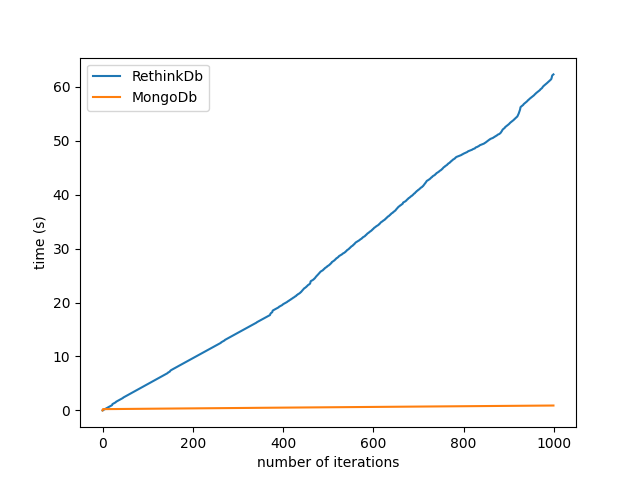
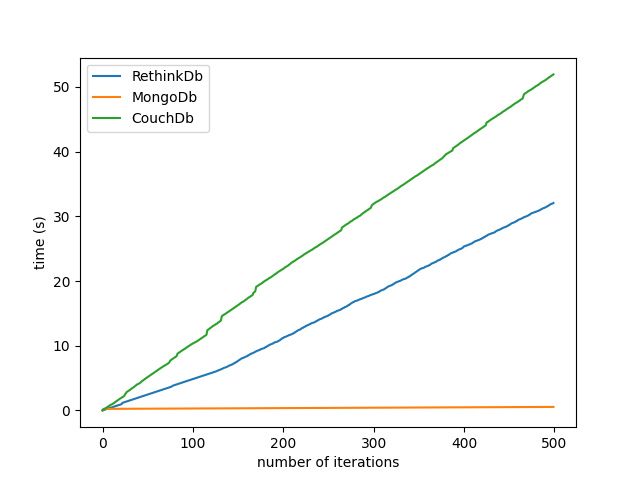
compare rethink with couchDb

diff --git a/efficiency-tests/main.py b/efficiency-tests/main.py
@@ -1,19 +1,27 @@
 from rethinkdb_test import RethinkTest
 from mongodb_test import MongoTest
+from couchdb_test import CouchTest
 import matplotlib.pyplot as plt
 
 
-def plot_result(rethink_data: list, mongo_data: list, test_name: str):
+def plot_result(
+        rethink_data: list,
+        mongo_data: list,
+        couch_data: list,
+        test_name: str
+):
     rethink_time_series = [row['time'] for row in sorted(rethink_data, key=lambda x: x['id'])]
     mongo_time_series = [row['time'] for row in sorted(mongo_data, key=lambda x: x['id'])]
-
+    couch_time_series = [row['time'] for row in sorted(couch_data, key=lambda x: x['id'])]
     print(rethink_time_series)
     print(mongo_time_series)
+    print(couch_time_series)
 
     plt.plot(rethink_time_series)
     plt.plot(mongo_time_series)
+    plt.plot(couch_time_series)
 
-    plt.legend(['RethinkDb', 'MongoDb'])
+    plt.legend(['RethinkDb', 'MongoDb', 'CouchDb'])
     plt.xlabel('number of iterations')
     plt.ylabel('time (s)')
 
@@ -23,7 +31,7 @@ def plot_result(rethink_data: list, mongo_data: list, test_name: str):
 
 if __name__ == '__main__':
 
-    iterations_num = 1_000
+    iterations_num = 5_00
     tests = ['inserts', 'read_write']
 
     for test_name in tests:
@@ -36,8 +44,13 @@ if __name__ == '__main__':
         mongo_test = MongoTest(test_name)
         getattr(mongo_test, f'test_{test_name}_efficiency')(inserts_num=iterations_num)
 
+        print("Couchdb")
+        couch_test = CouchTest(test_name)
+        getattr(couch_test, f'test_{test_name}_efficiency')(inserts_num=iterations_num)
+
         plot_result(
             rethink_data=rethink_test.get_results(test_name),
             mongo_data=mongo_test.get_results(test_name),
+            couch_data=couch_test.get_results(test_name),
             test_name=test_name
         )

diff --git a/efficiency-tests/couchdb_test.py b/efficiency-tests/couchdb_test.py
@@ -1,0 +1,42 @@
+import time
+import couchdb
+
+
+class CouchTest:
+    def __init__(self, schema: str):
+        user = "admin"
+        password = "password"
+        self.couchserver = couchdb.Server("http://%s:%s@127.0.0.1:5984/" % (user, password))
+
+        if schema in self.couchserver:
+            del self.couchserver[schema]
+        self.db = self.couchserver.create(schema)
+
+        select_all = 'function(doc) { emit((doc.id), doc); }'
+
+    def test_inserts_efficiency(self, inserts_num: int):
+        idx = 0
+        print('test started')
+
+        start = time.time()
+        while idx < inserts_num:
+            self.db.save({'id': idx, 'time': time.time() - start})
+            idx += 1
+
+        print('test finished')
+
+    def test_read_write_efficiency(self, inserts_num: int):
+        idx = 0
+        print('test started')
+
+        start = time.time()
+        while idx < inserts_num:
+            self.db.save({'id': idx, 'time': time.time() - start})
+            for i in self.db:
+                self.db.get(i)
+            idx += 1
+        print('test finished')
+
+    def get_results(self, schema: str) -> list:
+        db = self.couchserver[schema]
+        return list(db.get(i) for i in db)
